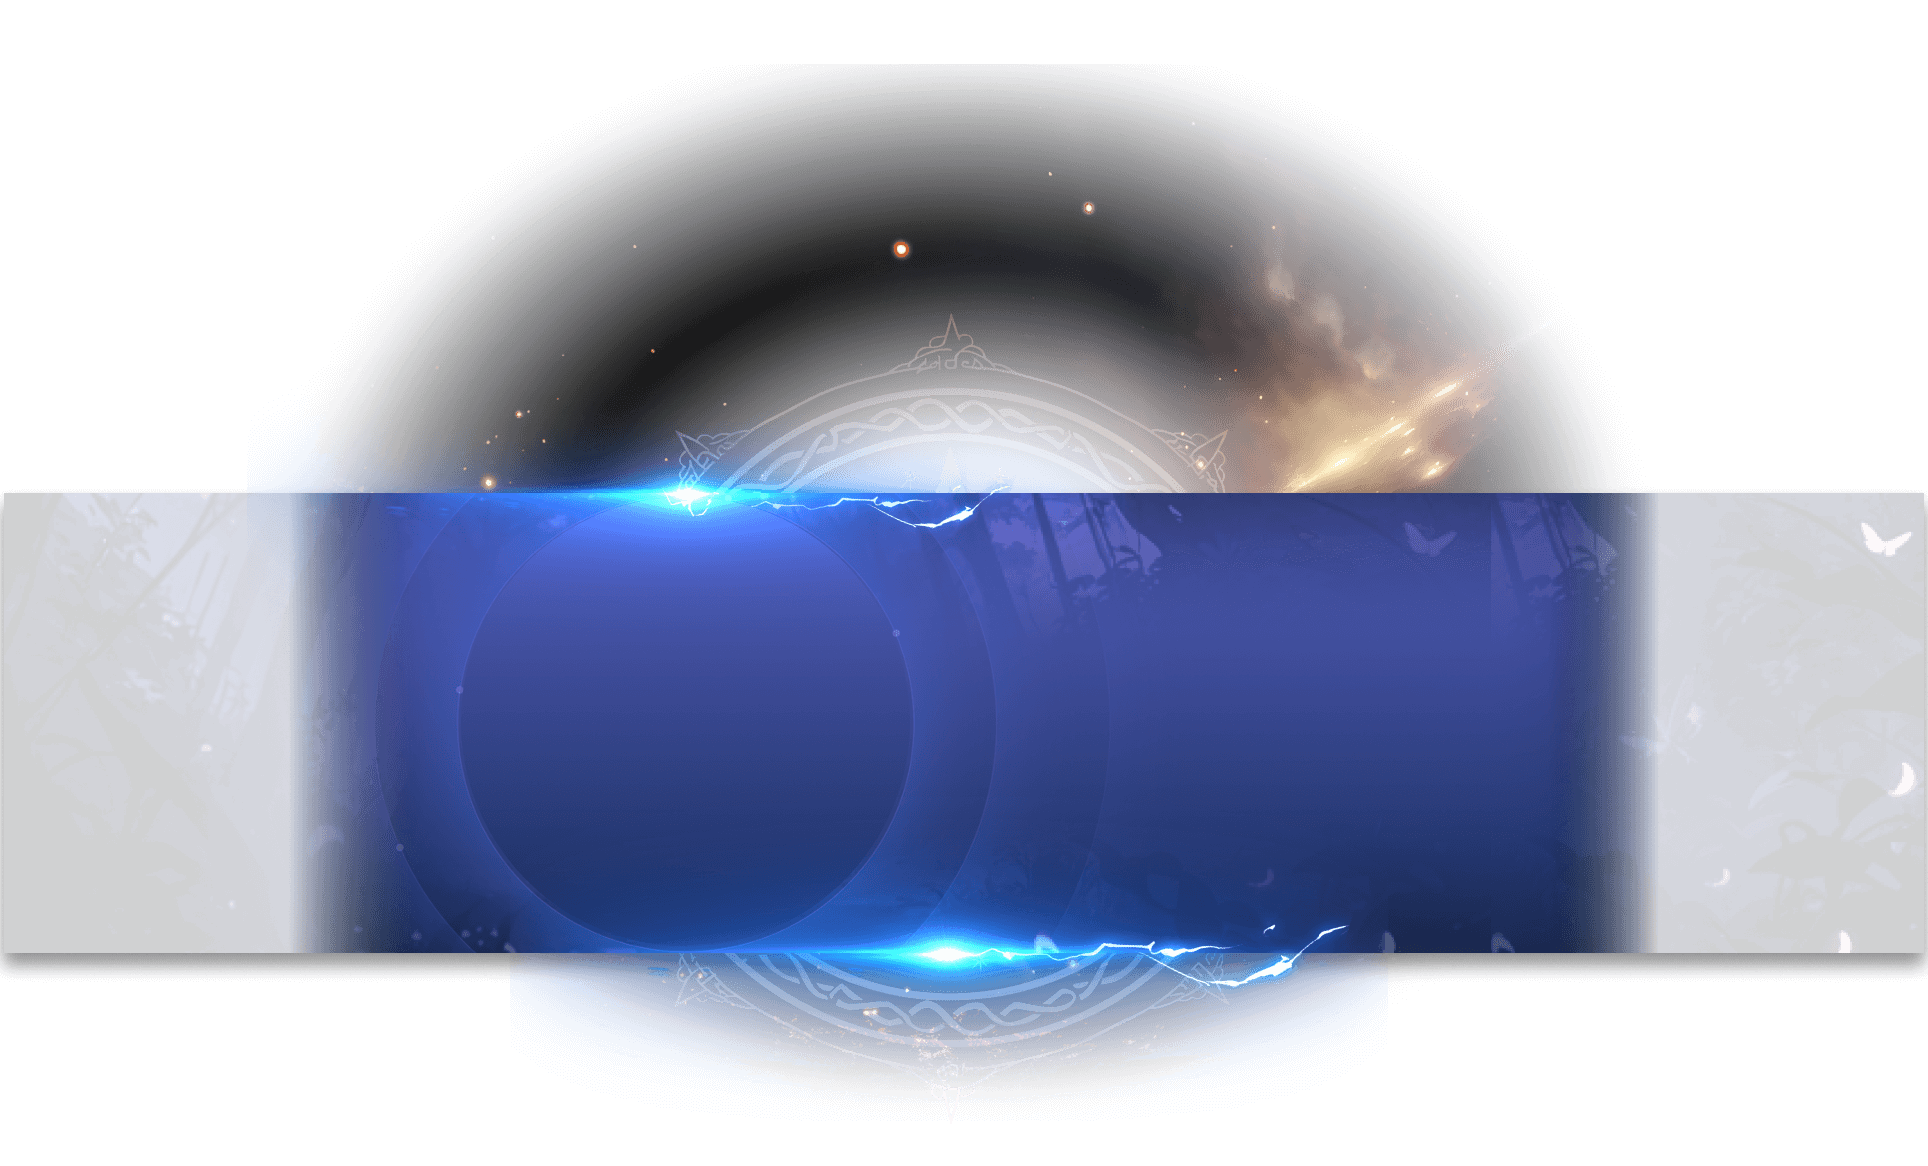
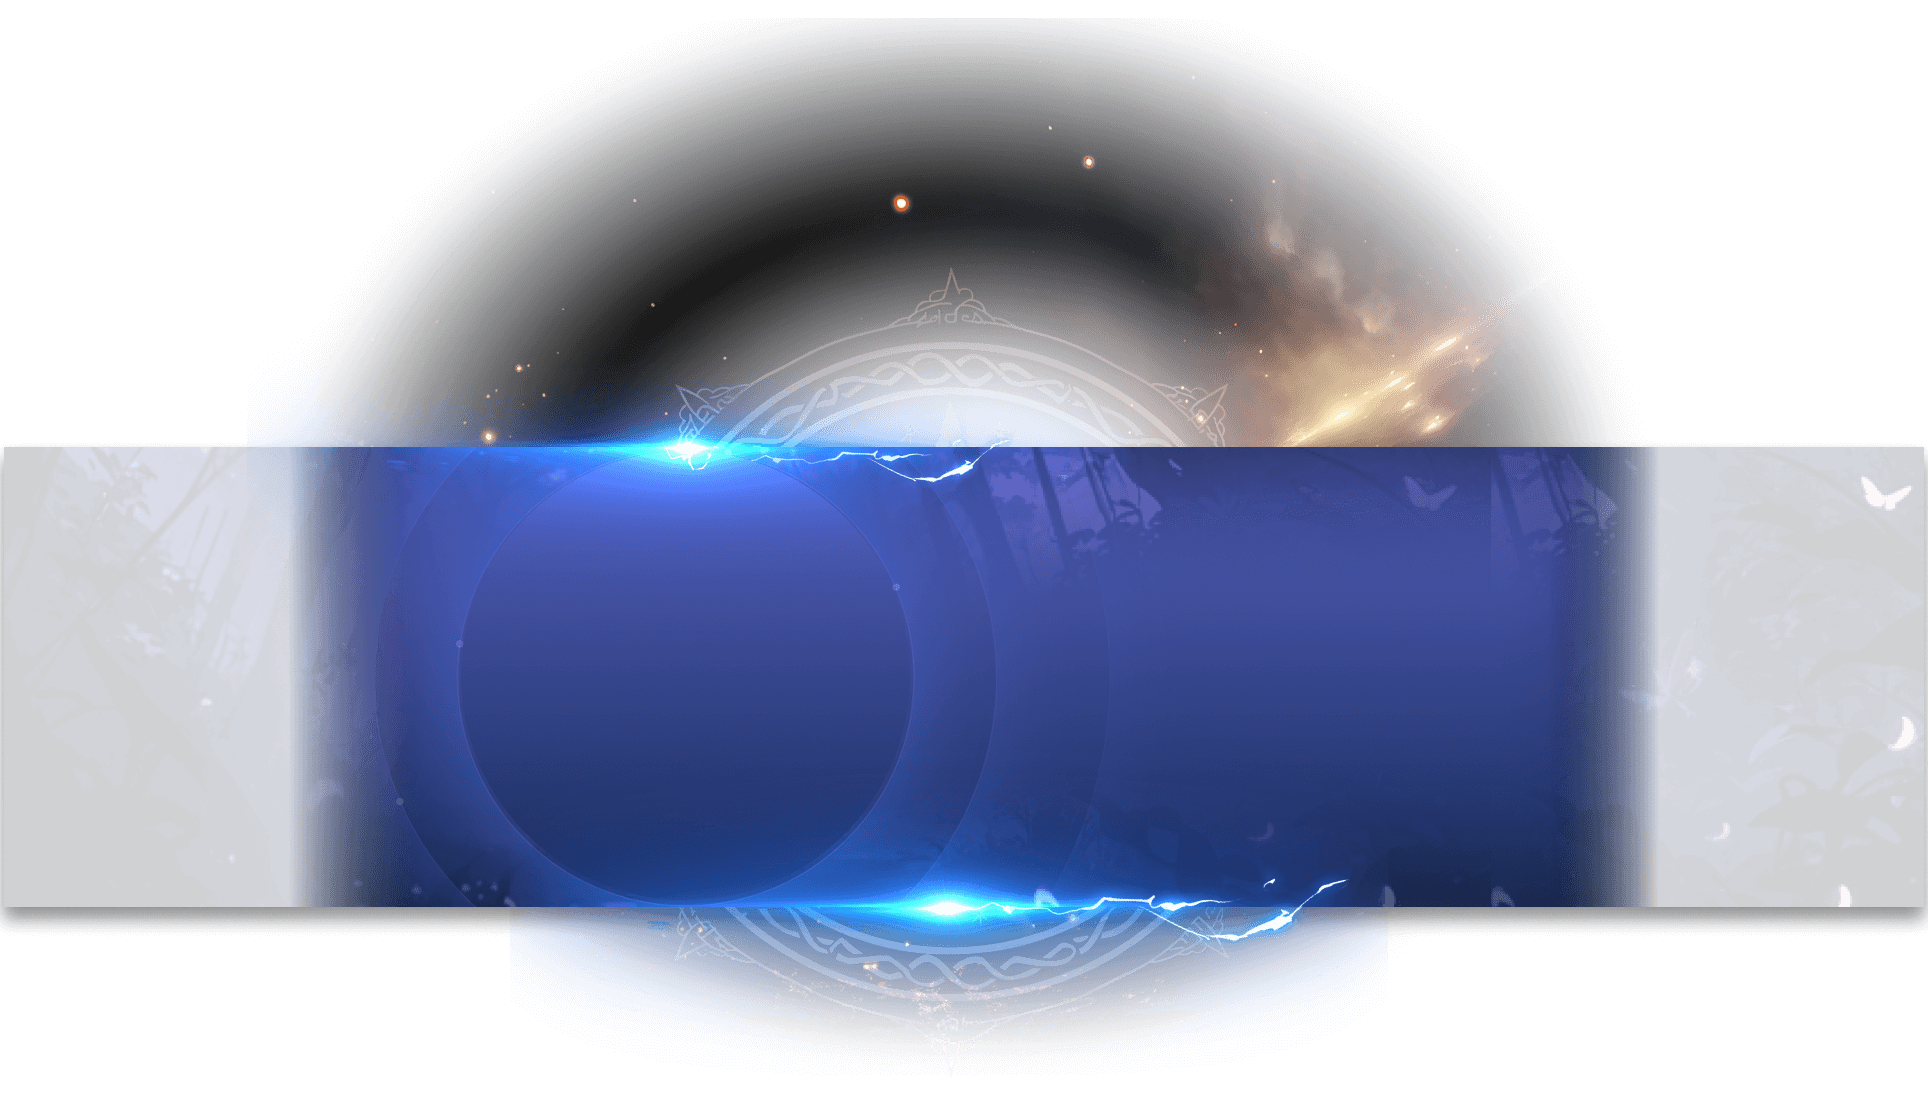
fix: [lh web] Amend hot game character images

Changed region(s): [[0.0, 0.0, 1.0, 0.4973], [0.0, 0.777, 1.0, 0.9324]]

diff --git a/lh-static-web/src/components/home/hotgame/DarkHomeHotGame.vue b/lh-static-web/src/components/home/hotgame/DarkHomeHotGame.vue
@@ -1,11 +1,8 @@
 <template>
-  <img style="width:100%;" src="../../../assets/home/hotgame/home-separator.png" />
-    <div class="hotgame-section">
-      <!-- <HomeTitle title="热门游戏" subtitle="TOP GAMES"></HomeTitle> -->
-      <!-- <HomeTitleV2 title="热门游戏" subtitle="TOP GAMES"/> -->
-      <img style="display:flex;margin:auto;width:55%;" src="../../../assets//home/hotgame/hotgame-title.png" />
-
-      <div class="hotgame-tabs-wrapper">
+  <div class="hotgame-section">
+    <div class="hotgame-tabs-wrapper">
+        <img class="separator-img" style="width:100%;" src="../../../assets/home/hotgame/home-separator.png" />
+        <img class="title-img" style="display:flex;margin:auto;width:55%;" src="../../../assets//home/hotgame/hotgame-title.png" />
         <el-tabs :tab-position="tabPosition" class="hotgame-tabs">
           <el-tab-pane :label="hotgame.title" v-for="(hotgame, hotgameIndex) in hotgameData" :key="`${hotgame}-${hotgameIndex}`" @click="onBannerClick(hotgameIndex)">
             <div :class="`hotgame-content-wrapper show`">
@@ -120,9 +117,7 @@
                   "
                   :class="`character-${hotgame.subtitle.toLowerCase()}-${hotgame.currentProvider}`"
                   :src="
-                    require(`../../../assets/home/hotgame/content/${hotgame.section}/${
-                      hotgame.content[hotgame.currentProvider].charImgPath
-                    }/character.png`)
+                    require(`../../../assets/home/hotgame/content/${hotgame.section}/character.png`)
                   "
                 />
               </Transition>
@@ -904,20 +899,37 @@ const tabPosition = ref('left')
     width: 100%;
     // max-width: 1100px;
     margin: 0 auto;
+    position: relative;
+
+    .separator-img {
+      position: absolute;
+      top: 5%;
+      left: 50%;
+      transform: translate(-50%, -50%);
+    }
+
+    .title-img {
+      position: absolute;
+      top: 17%;
+      left: 50%;
+      transform: translate(-50%, -50%);
+    }
 
     .hotgame-tabs-wrapper {
       background: url("../../../assets/home/hotgame/hotgame-bg2.png") no-repeat center center;
       background-size: 100% 100%;
-      aspect-ratio: 1960 / 1380;
+      aspect-ratio: 1960 / 1200;
       position: relative;
+      display: flex;
+      align-items: center;
+      justify-content: center;
 
       .hotgame-tabs {
-        position: absolute;
-        top: 40%;
-        left: 10%;
+        height: 400px;
+        margin-top: 11%;
 
         :deep(.el-tabs__header) {
-          transform: translate(0%, 25%);
+          transform: translate(0%, 15%);
           top: 0%;
           left: 0%;
         }
@@ -942,9 +954,9 @@ const tabPosition = ref('left')
 
         .hotgame-content-wrapper {
           display: grid;
-          grid-template-columns: auto 1fr;
+          grid-template-columns: 500px 500px;
           align-items: center;
-          gap: 3rem;
+          gap: 1rem;
           width: 0;
           height: 0;
           overflow: hidden;
@@ -1040,7 +1052,7 @@ const tabPosition = ref('left')
             .game-provider-wrapper {
               display: flex;
               // flex-wrap: wrap;
-              gap: 12.5px;
+              gap: 7.5px;
               // width: 20rem;
               z-index: 2;
   
@@ -1195,6 +1207,7 @@ const tabPosition = ref('left')
               right: 4rem;
               bottom: 0px;
               height: 30rem;
+              margin-top: -80px;
   
               &.character-fishing-gps {
                 right: 9rem;
@@ -1526,9 +1539,9 @@ const tabPosition = ref('left')
   
         .hotgame-content-wrapper {
           display: grid;
-          grid-template-columns: 1fr 1fr;
+          grid-template-columns: 400px 650px;
           align-items: center;
-          gap: 3rem;
+          gap: 1rem;
           width: 0;
           height: 0;
           overflow: hidden;
@@ -1647,7 +1660,7 @@ const tabPosition = ref('left')
             .game-provider-wrapper {
               display: flex;
               // flex-wrap: wrap;
-              gap: 12.5px;
+              gap: 7.5px;
               width: 20rem;
               z-index: 2;
   
